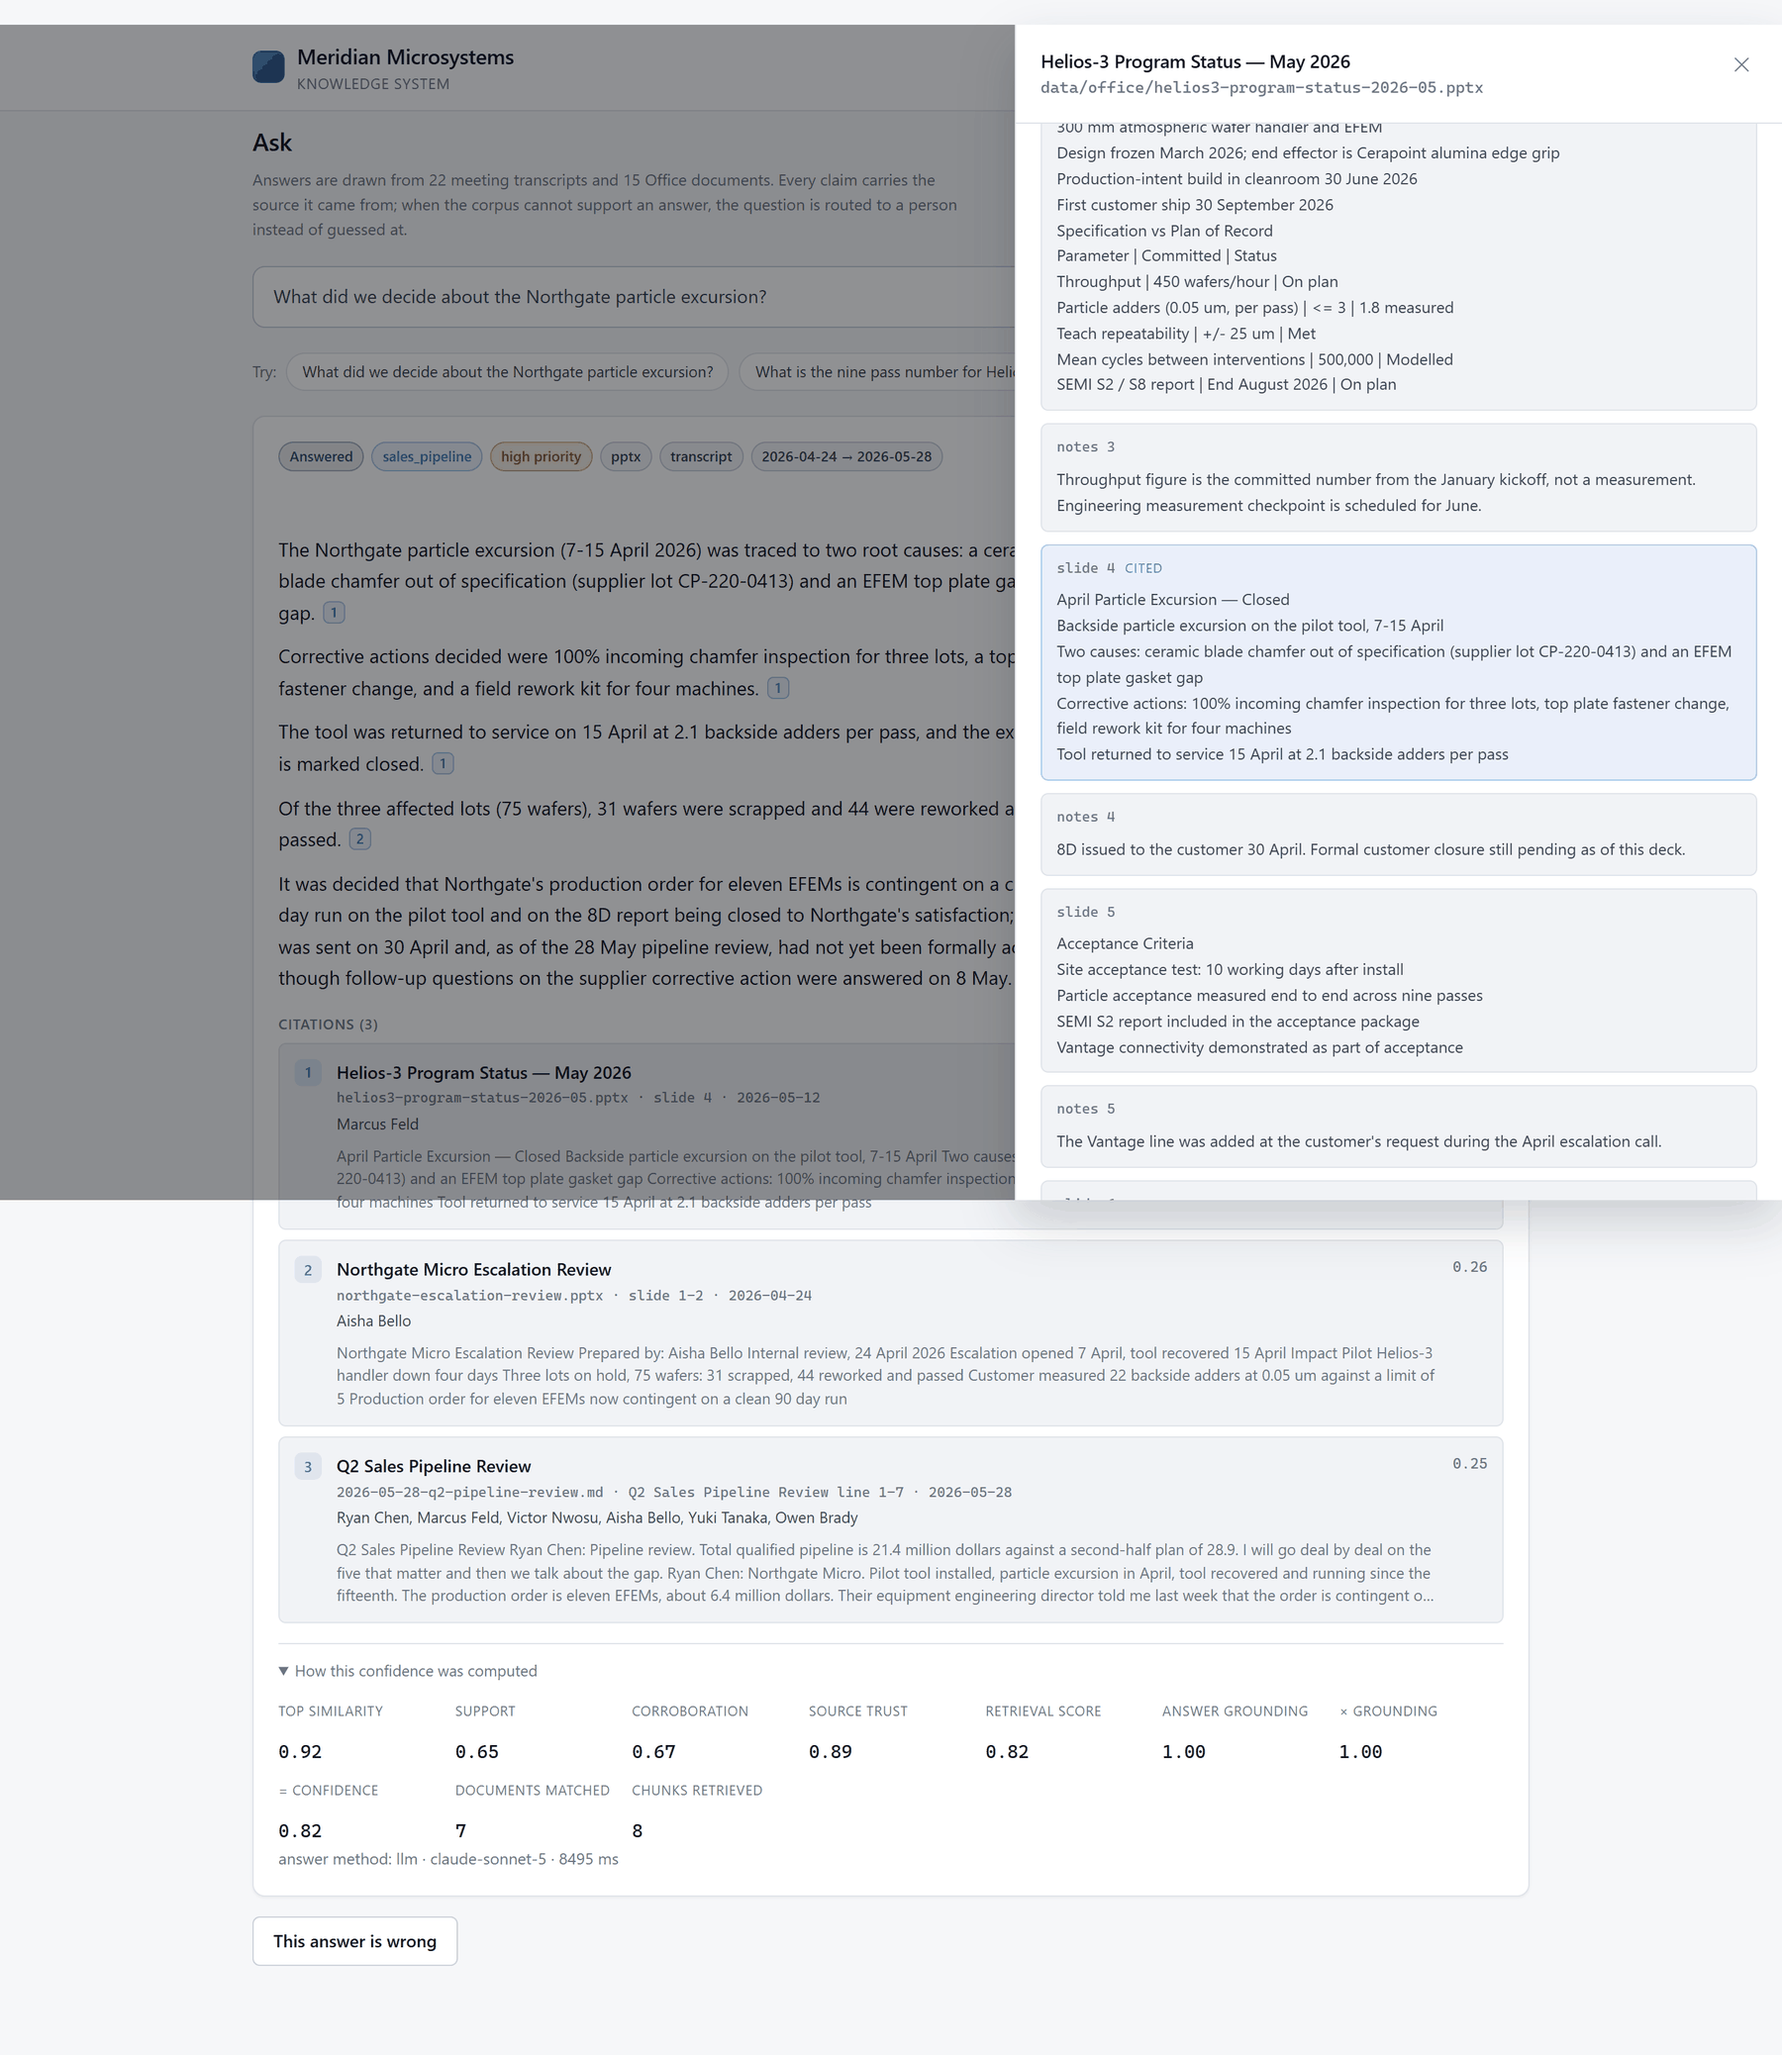
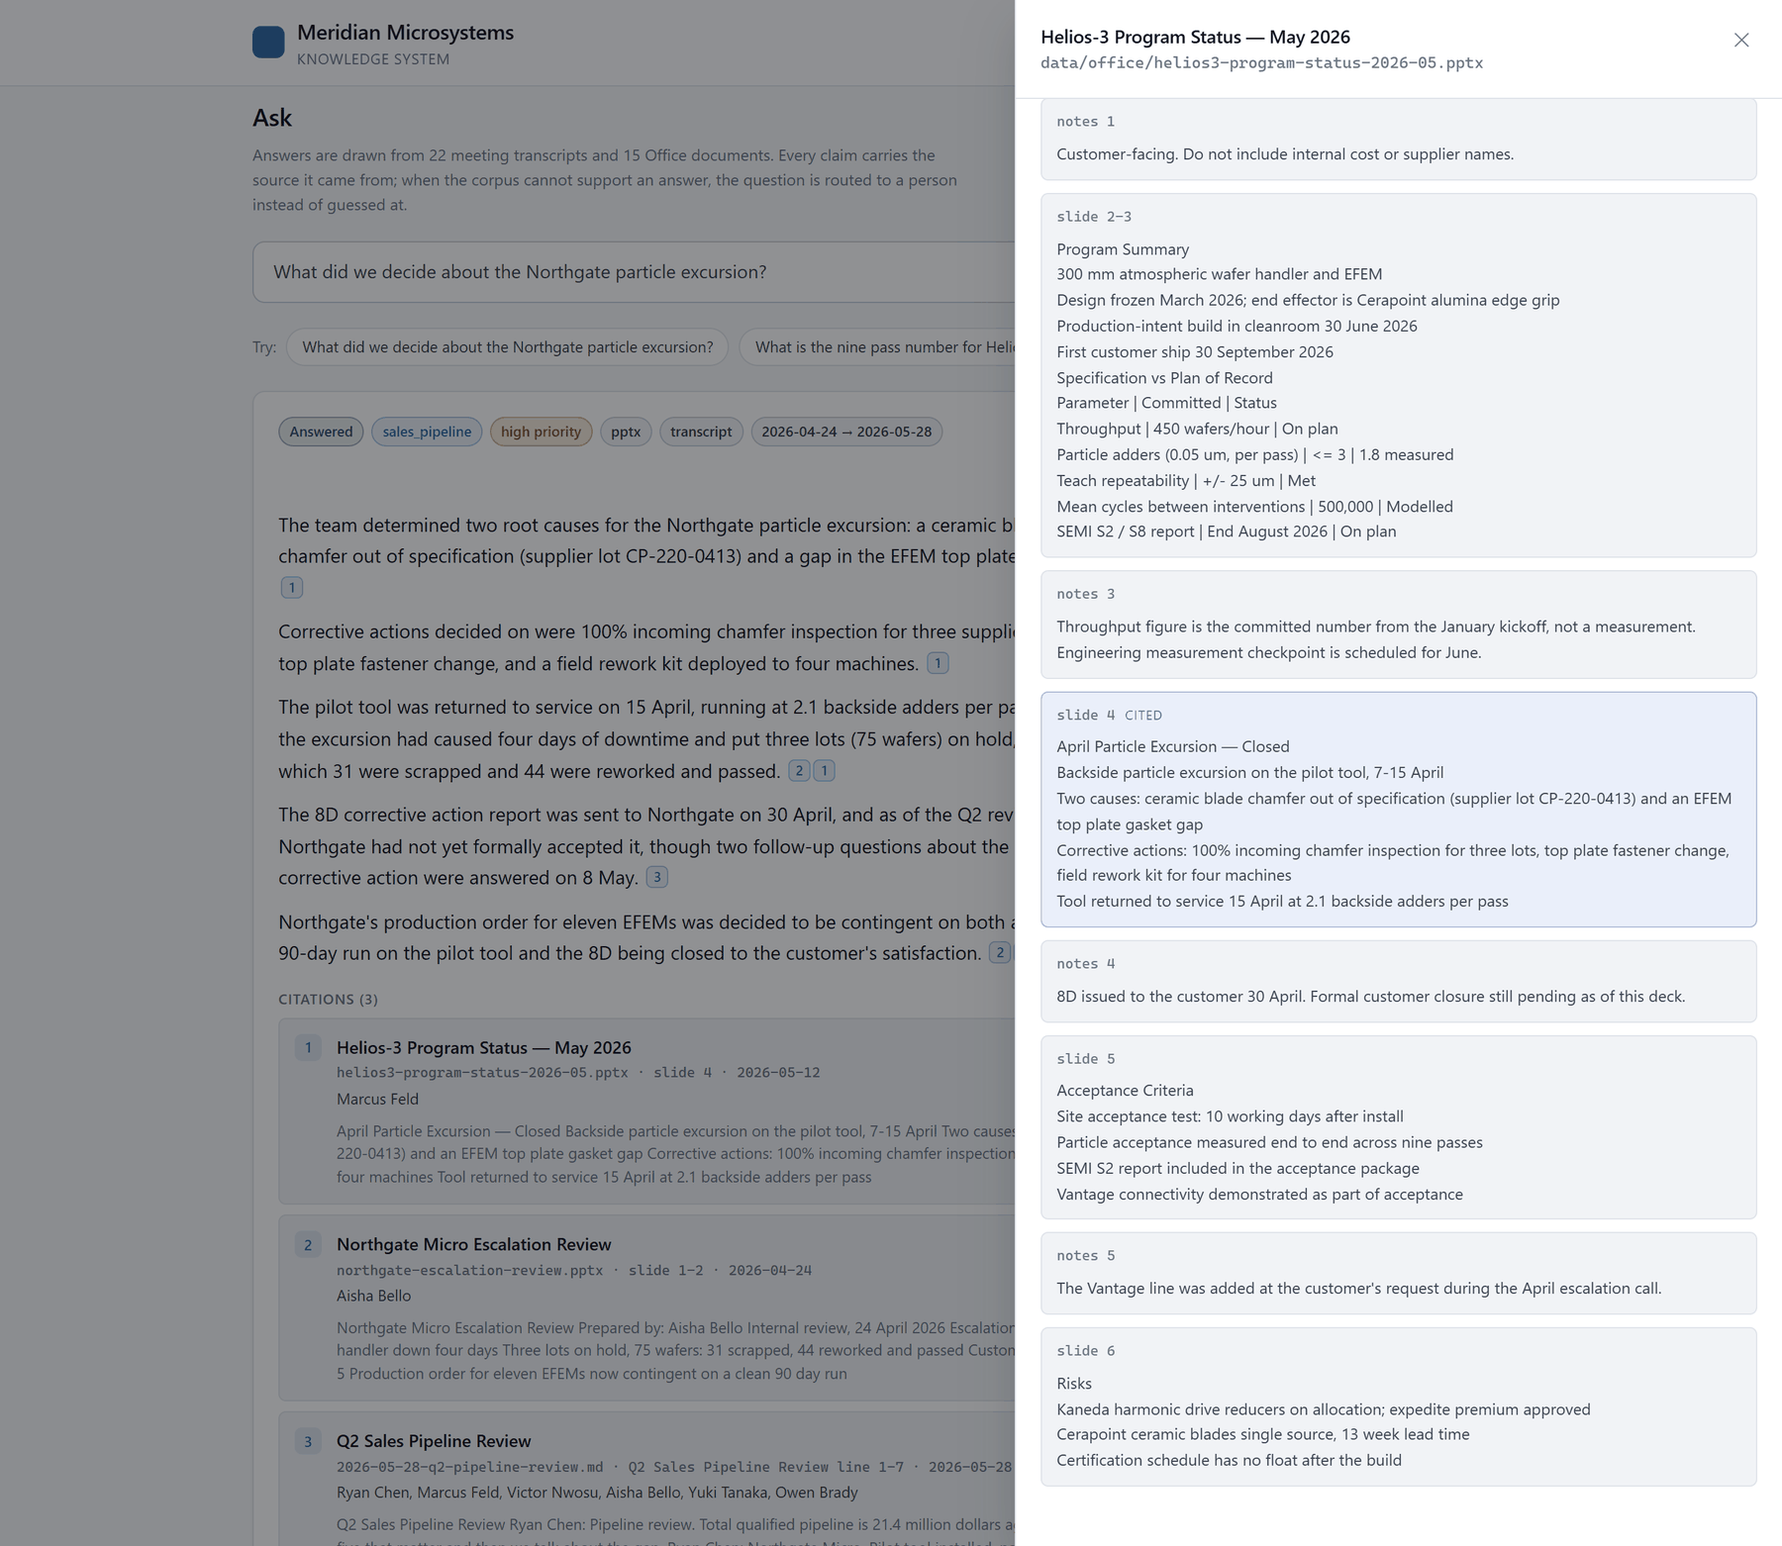
docs: fix the source drawer screenshot, and use the one image nothing pointed at
The drawer shot was captured full-page, and a full-page capture of a
modal is wrong in a way that reads as a rendering bug: the backdrop is
position:fixed, so it dims exactly one viewport height and stops. The
image came out dimmed across the top, bright across the bottom, with
the drawer itself sliced off at the fold.

Captured viewport-only now, at a taller viewport so the whole panel
fits one screen. The drawer reads end to end -- notes 1 through slide 6,
with slide 4 marked CITED and highlighted.

That moved the confidence derivation below the fold, which the caption
was still describing. It now points at ask-confidence.png instead, an
image that had been generated, committed, and referenced by nothing.
It belongs under "How confidence is computed", where the prose explains
the two gates and the screenshot shows every term of both: 0.92 top
similarity, 0.65 support, 0.67 corroboration, 0.89 source trust giving
a 0.82 retrieval score, a fully grounded draft leaving the gate-2
multiplier at 1.00, and 0.82 surviving. A confidence score nobody can
derive is decoration.

--only lets one shot be regenerated without rewriting the other six,
which otherwise churn on every fix because the model rewords the answer
each run.

diff --git a/backend/scripts/capture_screenshots.py b/backend/scripts/capture_screenshots.py
@@ -37,6 +37,7 @@ VIEWPORT = {"width": 1440, "height": 950}
 SCALE = 2
 MAX_WIDTH = 1800
 PALETTE = 192  # flat UI colour; more than this buys nothing visible
+DRAWER_HEIGHT = 1250  # tall enough that the whole modal fits one viewport
 
 ANSWERABLE = "What did we decide about the Northgate particle excursion?"
 ROUTED_TO_PERSON = "What is the nine pass number for Helios-3?"
@@ -55,7 +56,9 @@ def _ask(page: Page, question: str) -> None:
     page.wait_for_timeout(600)
 
 
-def _shot(page: Page, out: Path, name: str, full_page: bool = True) -> None:
+def _shot(page: Page, out: Path, name: str, full_page: bool = True, only: set[str] | None = None) -> None:
+    if only and name not in only:
+        return
     path = out / f"{name}.png"
     page.screenshot(path=str(path), full_page=full_page)
 
@@ -77,7 +80,7 @@ def _shot(page: Page, out: Path, name: str, full_page: bool = True) -> None:
     print(f"  wrote {path.relative_to(REPO_ROOT).as_posix()}  ({path.stat().st_size // 1024} KB)")
 
 
-def capture(base_url: str, out: Path, channel: str) -> None:
+def capture(base_url: str, out: Path, channel: str, only: set[str] | None = None) -> None:
     out.mkdir(parents=True, exist_ok=True)
 
     with sync_playwright() as p:
@@ -87,7 +90,7 @@ def capture(base_url: str, out: Path, channel: str) -> None:
 
         # 1. An answered question: claims carrying the citations for that claim.
         _ask(page, ANSWERABLE)
-        _shot(page, out, "ask-answered")
+        _shot(page, out, "ask-answered", only=only)
 
         # 2. The same answer with the confidence derivation opened, because the
         #    number is the point and "trust me" is not.
@@ -95,14 +98,24 @@ def capture(base_url: str, out: Path, channel: str) -> None:
         if breakdown.count():
             breakdown.first.click()
             page.wait_for_timeout(400)
-            _shot(page, out, "ask-confidence")
+            _shot(page, out, "ask-confidence", only=only)
 
         # 3. The source behind a citation, opened from the marker itself.
+        #
+        # Captured viewport-only, and this one matters: the drawer's backdrop is
+        # position:fixed, so it covers one viewport height and no more. A
+        # full-page capture of a modal therefore comes out half dimmed and half
+        # bright, with the drawer sliced off at the fold -- it looks like a
+        # rendering bug rather than a feature. Taller viewport so the whole
+        # panel fits in that one screen.
         marker = page.locator("button", has_text="1").first
         try:
             marker.click(timeout=5_000)
             page.wait_for_timeout(800)
-            _shot(page, out, "source-drawer")
+            page.set_viewport_size({"width": VIEWPORT["width"], "height": DRAWER_HEIGHT})
+            page.wait_for_timeout(500)
+            _shot(page, out, "source-drawer", full_page=False, only=only)
+            page.set_viewport_size(VIEWPORT)
             page.keyboard.press("Escape")
             page.wait_for_timeout(400)
         except Exception as exc:  # noqa: BLE001 - one missing shot is not a failure
@@ -110,22 +123,22 @@ def capture(base_url: str, out: Path, channel: str) -> None:
 
         # 4. Routed to a person, with the passage that chose them.
         _ask(page, ROUTED_TO_PERSON)
-        _shot(page, out, "routed-to-person")
+        _shot(page, out, "routed-to-person", only=only)
 
         # 5. Routed to nobody. The most load-bearing screenshot here: it is the
         #    visible form of "no one is named when the corpus connects no one".
         _ask(page, ROUTED_TO_NOBODY)
-        _shot(page, out, "routed-to-nobody")
+        _shot(page, out, "routed-to-nobody", only=only)
 
         # 6. The triage queue those routed questions land in.
         page.get_by_role("button", name="Review queue").click()
         page.wait_for_timeout(1_200)
-        _shot(page, out, "review-queue")
+        _shot(page, out, "review-queue", only=only)
 
         # 7. The first-30-days metric beside its live value.
         page.get_by_role("button", name="Measurement").click()
         page.wait_for_timeout(1_200)
-        _shot(page, out, "measurement")
+        _shot(page, out, "measurement", only=only)
 
         browser.close()
 
@@ -135,6 +148,10 @@ def main() -> int:
     parser.add_argument("--url", default="http://localhost:5173")
     parser.add_argument("--out", type=Path, default=DEFAULT_OUT)
     parser.add_argument(
+        "--only", nargs="*", default=None,
+        help="Only write these shots by name; the others are still driven, just not saved.",
+    )
+    parser.add_argument(
         "--channel", default="msedge",
         help="Installed browser Playwright should drive: msedge or chrome.",
     )
@@ -142,7 +159,7 @@ def main() -> int:
 
     print(f"capturing from {args.url} using {args.channel}")
     try:
-        capture(args.url, args.out, args.channel)
+        capture(args.url, args.out, args.channel, set(args.only) if args.only else None)
     except Exception as exc:  # noqa: BLE001
         print(f"\nfailed: {type(exc).__name__}: {exc}")
         print("Is the UI running on that URL, and the API on :8000?")

diff --git a/README.md b/README.md
@@ -192,10 +192,10 @@ Three screens, no state library — each one owns a single request:
 **Opening a citation.** A citation is only checkable if the thing it points at
 can be opened, so every marker does. The drawer below was opened from marker
 `[1]`: it loads the whole source document, scrolls to the cited chunk and marks
-it, and shows the slides either side of it — including the speaker note saying
-the throughput figure on that deck is *"the committed number from the January
-kickoff, not a measurement"*. The confidence derivation is expanded underneath,
-every term of it.
+it `CITED`, and keeps the slides either side of it in view — including the
+speaker note admitting the throughput figure on that deck is *"the committed
+number from the January kickoff, not a measurement"*, which is the sort of
+thing a summary drops and a provenance view must not.
 
 [![Source drawer opened from a citation marker, scrolled to the cited slide](docs/images/source-drawer.png)](docs/images/source-drawer.png)
 
@@ -414,6 +414,17 @@ from, and every citation is checked back against the retrieved set. The grounded
 fraction discounts the retrieval score (`confidence = retrieval × (0.35 + 0.65 ×
 grounded)`), and an answer the sources don't support drops that query to 0.28 and
 routes it.
+
+Neither gate is asserted to the user. Every term of both is on screen, because
+a confidence score nobody can derive is decoration:
+
+[![The confidence derivation, expanded: every term of both gates](docs/images/ask-confidence.png)](docs/images/ask-confidence.png)
+
+<sub>`0.92` top similarity, `0.65` support, `0.67` corroboration and `0.89`
+source trust give a retrieval score of `0.82`; the drafted answer came back
+fully grounded, so the gate-2 multiplier is `1.00` and the score survives
+intact at `0.82`. Also on the line: 7 documents matched, 8 chunks retrieved,
+`claude-sonnet-5`, 8495 ms.</sub>
 
 ### How routing picks a person
 
